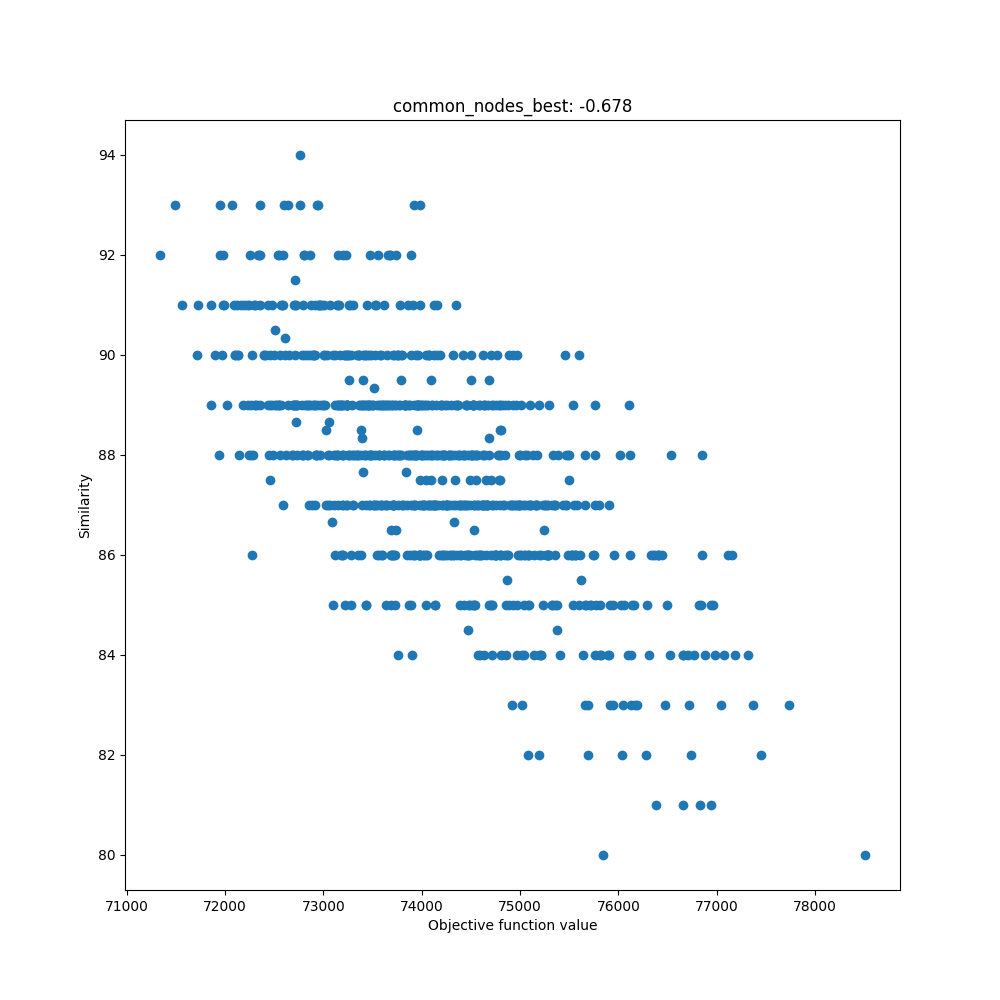
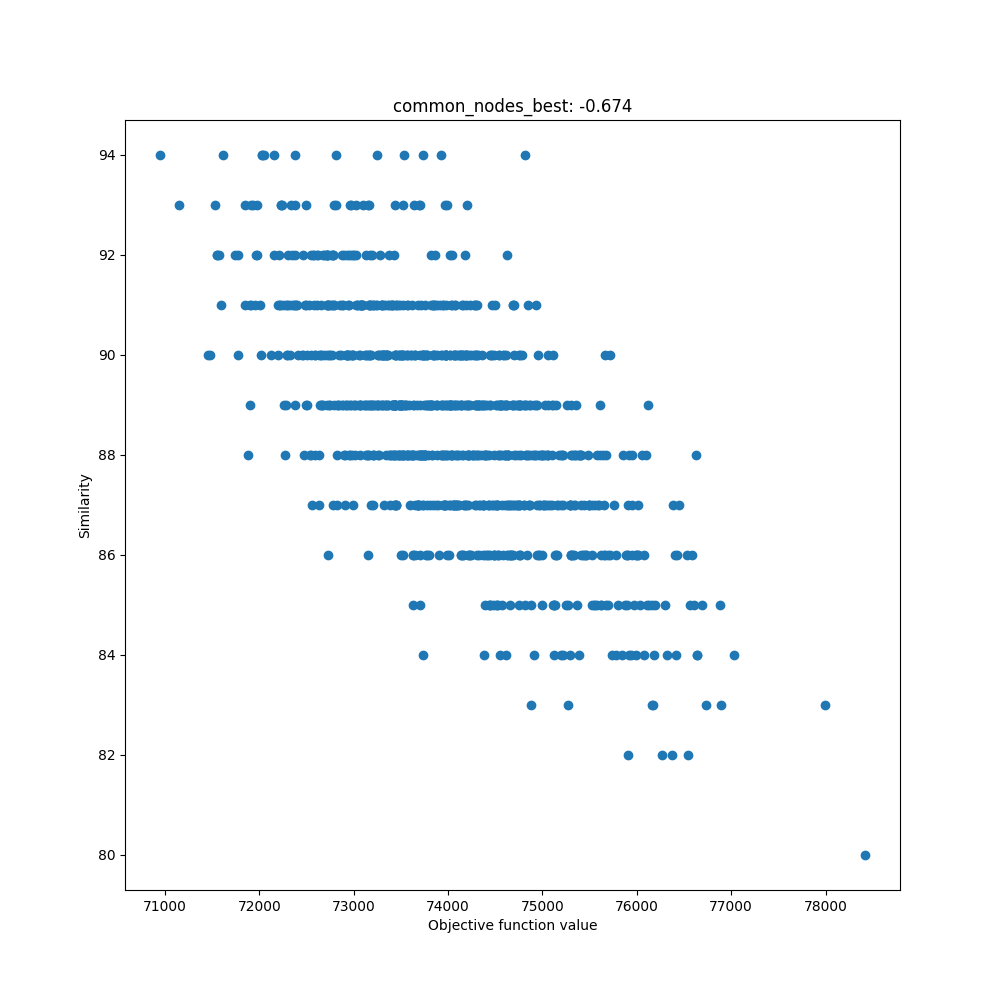
corrected assignment8

diff --git a/reports/assignment8/assignment8.md b/reports/assignment8/assignment8.md
@@ -8,7 +8,7 @@
 
 ```
 Function SimilarityToBestSolution
-    Compute the best solution and its objective functio value using the Iterated Local Search algorithm
+    Compute the best solution and its objective function value using the Iterated Local Search algorithm
     Initialize the vector of pairs to store the similarity measure and the objective function value
     
     Repeat 1000 times
@@ -66,68 +66,78 @@ Function evaluateCommonEdges
 
 ### Comparison to the best solution (generated using the Iterated Local Search algorithm)
 Correlation coefficients:
-- Common Edges: -0.578
-- Common Nodes: -0.678
+- Common Edges: -0.546
+- Common Nodes: -0.674
 
 ![TSPA_common_edges_best.png](assets%2FTSPA_common_edges_best.png)
+<div style="page-break-after: always"></div>
+
 ![TSPA_common_nodes_best.png](assets%2FTSPA_common_nodes_best.png)
+
 ### Comparison to all other solutions
 Correlation coefficients:
-- Common Edges: -0.636
-- Common Nodes: -0.512
+- Common Edges: -0.637
+- Common Nodes: -0.485
 
-![TSPA_common_edges_avg.png](assets%2FTSPA_common_edges_avg.png)
-![TSPA_common_nodes_avg.png](assets%2FTSPA_common_nodes_avg.png)
+![common_edges_avg.png](..%2F..%2Foutputs%2F2025_01_08_18_18_52%2Fplots%2Fcommon_edges_avg.png)
+<div style="page-break-after: always"></div>
+
+![common_nodes_avg.png](..%2F..%2Foutputs%2F2025_01_08_18_18_52%2Fplots%2Fcommon_nodes_avg.png)
 
 ## TSPB
 
 ### Comparison to the best solution (generated using the Iterated Local Search algorithm)
 Correlation coefficients:
-- Common Edges: -0.658
-- Common Nodes: -0.688
-![common_edges_best.png](assets%2Fcommon_edges_best.png)
-![common_nodes_best.png](assets%2Fcommon_nodes_best.png)
+- Common Edges: -0.652
+- Common Nodes: -0.678
 
+![common_edges_best.png](assets%2Fcommon_edges_best.png)
+<div style="page-break-after: always"></div>
+
+![common_nodes_best.png](assets%2Fcommon_nodes_best.png)
 ### Comparison to all other solutions
 Correlation coefficients:
-- Common Edges: -0.774
-- Common Nodes: -0.557
+- Common Edges: -0.755
+- Common Nodes: -0.538
+
 ![common_edges_avg.png](assets%2Fcommon_edges_avg.png)
+<div style="page-break-after: always"></div>
+
 ![common_nodes_avg.png](assets%2Fcommon_nodes_avg.png)
 
 ### Table of correlation coefficients
 
 |      | Best Node | Best Edge | Avg Node | Avg Edge |
 |------|-----------|-----------|----------|----------|
-| TSPA | -0.678    | -0.578    | -0.512   | -0.636   |
-| TSPB | -0.688    | -0.658    | -0.557   | -0.774   |
+| TSPA | -0.674    | -0.546    | -0.485   | -0.637   |
+| TSPB | -0.678    | -0.652    | -0.538   | -0.755   |
 # Raw results
 
 ## TSPA
 
 ```
-Best Cost: 69379
-Comparing to: Best Solution, Similarity measure: Common Nodes, Average Similarity: 87
+Best Cost: 69205
+Comparing to: Best Solution, Similarity measure: Common Nodes, Average Similarity: 88
 
-Best Cost: 69625
-Comparing to: Best Solution, Similarity measure: Common Edges, Average Similarity: 50
+Best Cost: 69583
+Comparing to: Best Solution, Similarity measure: Common Edges, Average Similarity: 52
 
-Comparing to: All other solutions, Similarity measure: Common Nodes, Average Similarity: 87
+Comparing to: All other solutions, Similarity measure: Common Nodes, Average Similarity: 87.750984
 
-Comparing to: All other solutions, Similarity measure: Common Edges, Average Similarity: 45
+Comparing to: All other solutions, Similarity measure: Common Edges, Average Similarity: 45.81864
+
 ```
 ## TSPB
 ```
-Best Cost: 43584
-Comparing to: Best Solution, Similarity measure: Common Nodes, Average Similarity: 85
+Best Cost: 43625
+Comparing to: Best Solution, Similarity measure: Common Nodes, Average Similarity: 83
 
-Best Cost: 43924
+Best Cost: 43515
 Comparing to: Best Solution, Similarity measure: Common Edges, Average Similarity: 50
 
-Comparing to: All other solutions, Similarity measure: Common Nodes, Average Similarity: 82
+Comparing to: All other solutions, Similarity measure: Common Nodes, Average Similarity: 83.21918
 
-Comparing to: All other solutions, Similarity measure: Common Edges, Average Similarity: 42
-
+Comparing to: All other solutions, Similarity measure: Common Edges, Average Similarity: 43.12958
 ```
 # Source code
 
@@ -136,4 +146,5 @@ Comparing to: All other solutions, Similarity measure: Common Edges, Average Sim
 
 # Conclusions
 In all cases the correlation is negative. This means the lower the objective function value, the higher the similarity to either the best solution or on average to all other solutions.
-We can interpret these results of similarity to best solution as follows: if the solutions obtained by an objectively worse method have better scores, they tend to be closely related in terms of structure to that generated by an objectively better method. 
+We can interpret these results of similarity to best solution in the following way: if the solutions obtained by an objectively worse method have better scores, they tend to be closely related in terms of structure to that generated by an objectively better method. 
+The strongest correlation occurs when calculating the average similarity to all other solutions using edges, interestingly this plot does not show the highest values of similarity (up to 50). The highest values of similarity occur when comparing solutions to some objectively best solution (similarity reaching 92).
